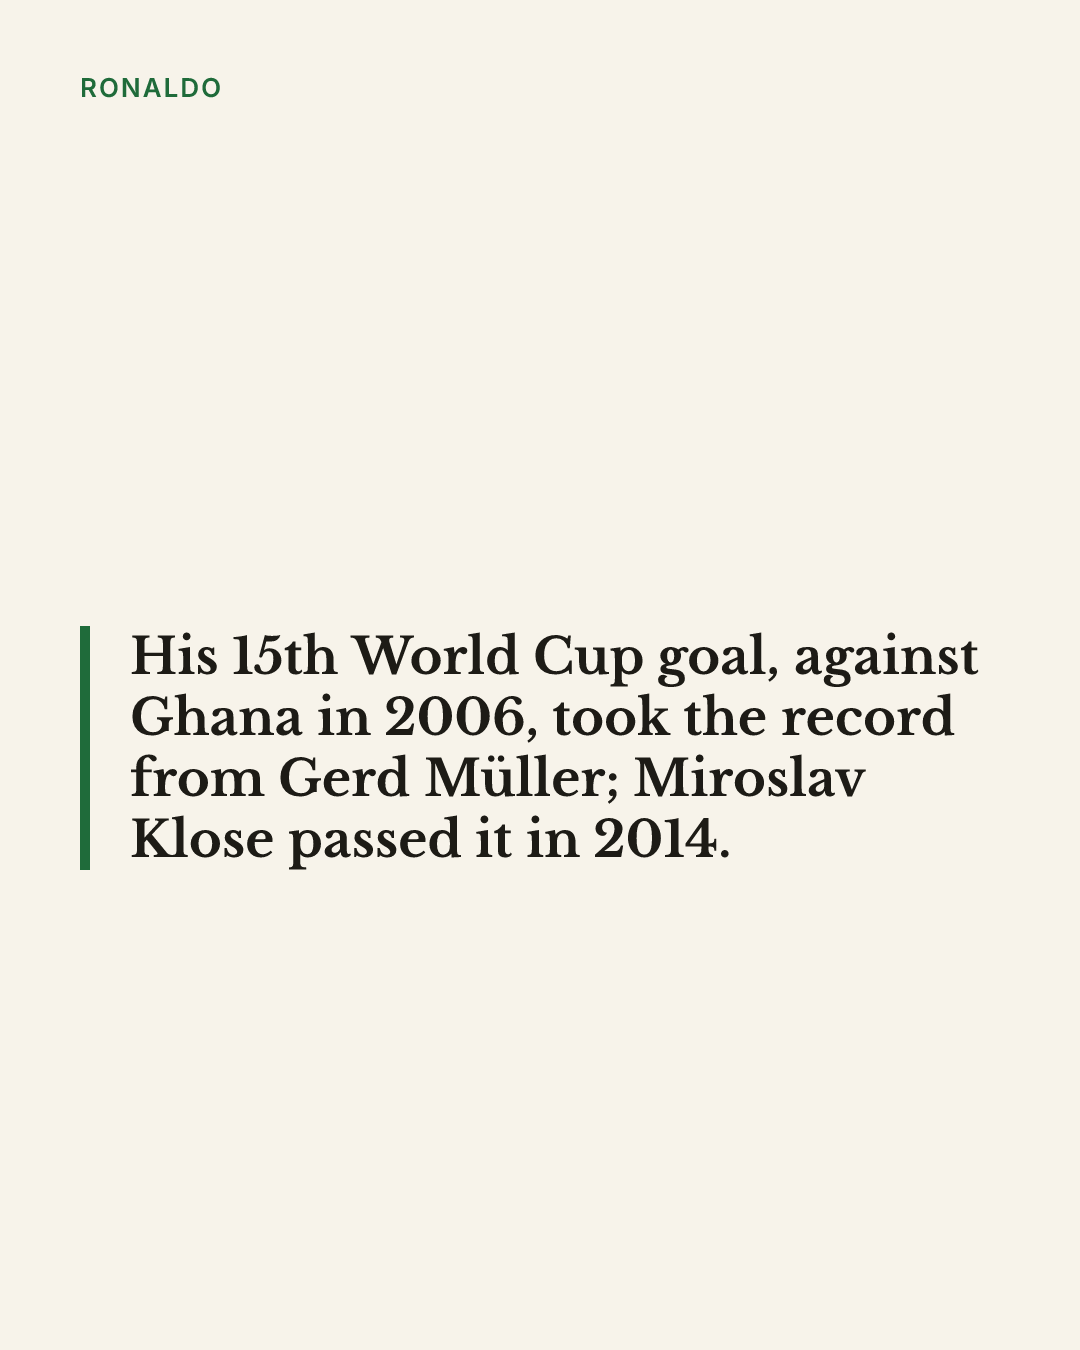
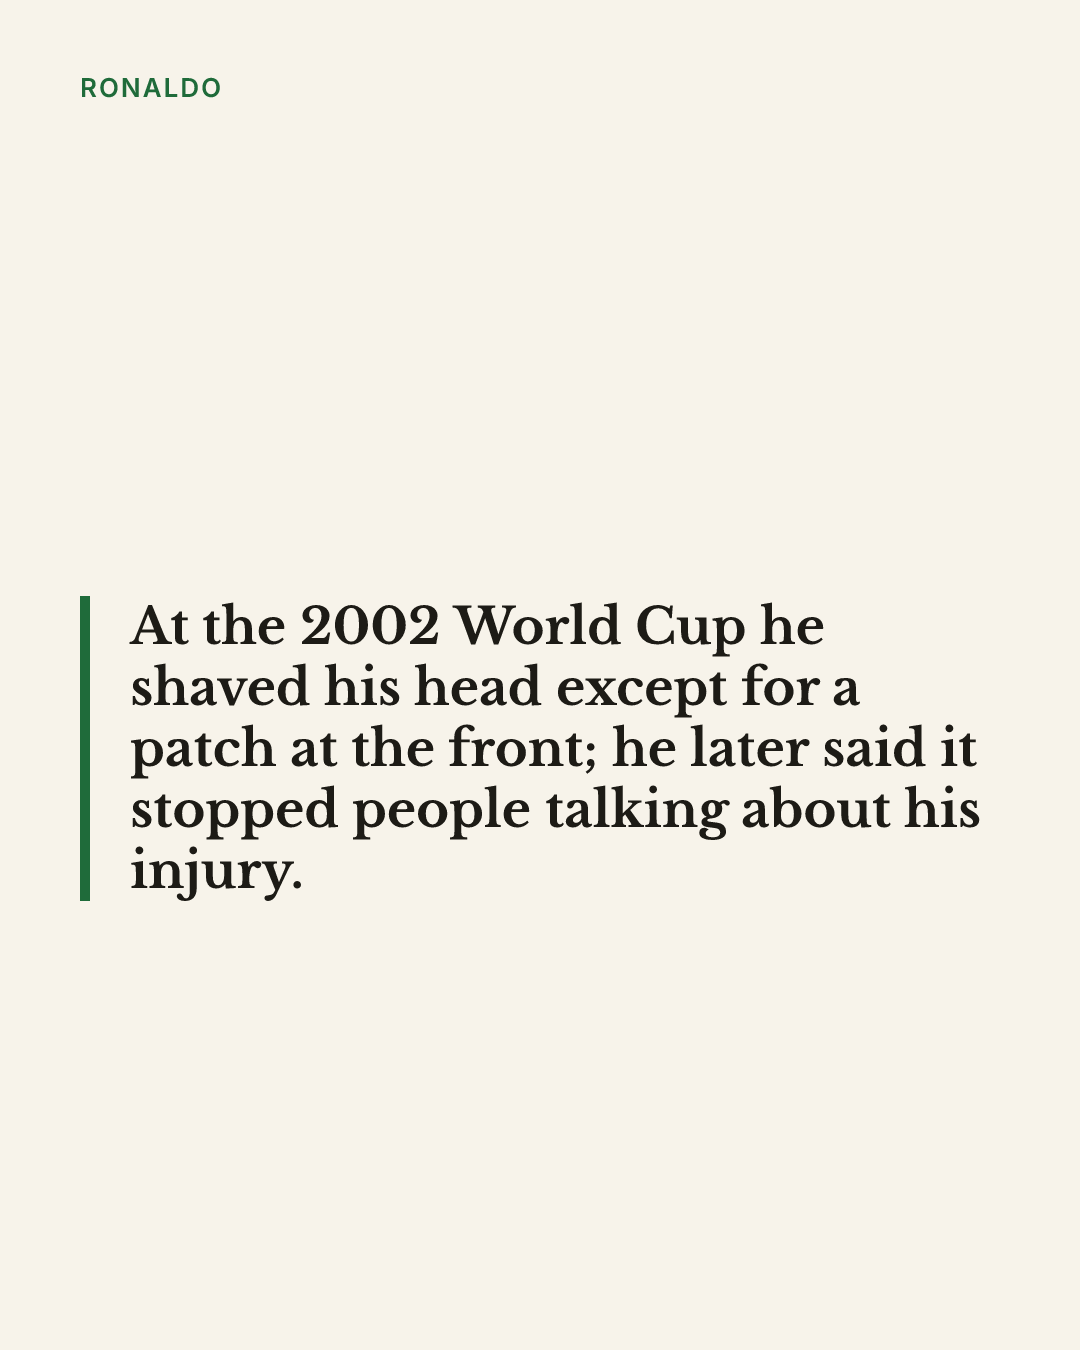
content: 007-012 rewritten in the short format; 001 social pack rebuilt from the new text
Claude-Session: https://claude.ai/code/session_01KFrvz6d1CHFi9rozrKkMUw

Changed region(s): [[0.1222, 0.4356, 0.9167, 0.6844], [0.0611, 0.6533, 0.0917, 0.6844], [0.0611, 0.4356, 0.0917, 0.4667]]

diff --git a/social/001.md b/social/001.md
@@ -1,26 +1,97 @@
 # Story No. 001 · Ronaldo / The World Cup he won on two rebuilt knees
 
-- Sent: 2026-10-18T18:32:16.432Z (scheduled)
+- Sent: 2026-10-19T02:52:39.944Z (scheduled)
 - Web page: https://immigrationlabsg.github.io/football-stories-101/stories/ronaldo-r9-two-rebuilt-knees/ (live)
 - Hero: public/images/stories/001-ronaldo-r9.jpg
 - Hero alt text: Photograph of Ronaldo at the 2002 World Cup
 
-## Facebook (post as text + the hero image, link in the first comment)
+## Facebook (post the whole text with the picture, exactly as below)
 
-Story No. 001
-Ronaldo / The World Cup he won on two rebuilt knees
+Ronaldo came off the bench in Rome on 12 April 2000.
 
-At 21 he won the Ballon d'Or. Then his right knee gave way twice in five months. Two years later he scored both goals in a World Cup final.
+It was the Coppa Italia final, first leg, at the Stadio Olimpico. His first match since November.
 
-Ronaldo came off the bench in the second half of the first leg of the Coppa Italia final at the Stadio Olimpico in Rome on 12 April 2000. It was his first match since November. Within minutes, six by most accounts and seven by others, he shaped to turn and his right knee buckled beneath him. He went down clutching it. Lazio won the match 2–1, but the score hardly mattered: the patellar tendon in that knee, repaired after an injury against Lecce five months earlier, had ruptured completely.
+Within minutes, six by most accounts and seven by others, he shaped to turn and his right knee buckled beneath him.
 
-Greatness in a striker is usually measured in what the player did. Ronaldo's case forces the other measurement, what the player was prevented from doing, and makes it impossible to settle. FIFA's vote named him the best player in the world at 20, and again after the knee had been rebuilt, which is a thing almost nobody manages once. The honest version of his story is not only the tragedy of the lost years in between, but what he did when they ended.
+The patellar tendon, repaired five months earlier, had ruptured completely.
+
+He was still in his early twenties. At 20 he had been the youngest player ever named FIFA World Player of the Year. At 21 he had won the Ballon d'Or.
+
+He would not play another competitive match for 17 months.
+
+Go back a little. Ronaldo grew up in Rio de Janeiro supporting Flamengo, and Flamengo let him go.
+
+The story, as told by his youth coach at São Cristóvão, Alfredo Sampaio, is that the boy missed training because he could not afford the bus fare. The club offered no help.
+
+So a future World Player of the Year slipped through the net over the price of a bus ride.
+
+Cruzeiro took him on instead. On 7 November 1993 he scored five in a 6–0 win over Bahia.
+
+Then came Europe. Thirty league goals in his first season at PSV Eindhoven. Then Barcelona, and 47 goals in 49 games by the club's own count.
+
+Away at Compostela in October 1996, he rode a trip and a tug from the first defender, ran past several more and scored. On the touchline Bobby Robson lifted his hands to his head.
+
+Inter paid a world-record fee, reported at £19.5 million, in 1997.
+
+And then his body started sending the bill.
+
+On 21 November 1999, against Lecce, he felt his right knee give and limped off. Tendon ruptured. Surgery.
+
+Five months later came Rome, and the knee lasted a matter of minutes.
+
+Here's what I didn't know until recently.
+
+The comeback was not one return but a run of false starts.
+
+The knee was rebuilt in Paris by the surgeon Gérard Saillant. Ronaldo's first competitive minutes came on 20 September 2001, the last 28 of a UEFA Cup tie against Brașov.
+
+His return to league football that autumn lasted 13 minutes before another, smaller injury.
+
+His first league goal on the new knee finally came at Brescia on 9 December 2001. It was his first since the afternoon against Lecce, two years earlier.
+
+On the last day of that season Inter lost 4–2 at Lazio and handed Juventus the title.
+
+Ronaldo was substituted and wept on the bench.
+
+A few weeks later he was at the World Cup in South Korea and Japan.
+
+Then came the part that surprised me.
+
+He had been troubled by thigh injuries before the tournament. So he shaved his head, all except a patch of hair at the front.
+
+Years later he said it was deliberate. Once he turned up to training with it, he said, nobody talked about the injury any more.
+
+The haircut was a decoy.
+
+He scored against Turkey, against China, twice against Costa Rica, and late against Belgium. In the semi-final he beat Turkey with a toe-poke.
+
+The final, on 30 June 2002, put him against Oliver Kahn, who had conceded one goal all tournament.
+
+In the 67th minute Kahn failed to hold a low shot from Rivaldo, and Ronaldo scored from the rebound.
+
+In the 79th Rivaldo dummied Kléberson's pass across the area, and Ronaldo finished low.
+
+Brazil won 2–0.
+
+Eight goals, the Golden Boot, and a third FIFA World Player of the Year award. Two years after a knee injury that might have ended his career.
+
+The knees never stopped failing him. In February 2008, playing for Milan, his left patellar tendon went three minutes after he came on.
+
+He retired in February 2011, aged 34. As he put it: "Mentally, I wanted to continue, but I have to acknowledge that I lost [the fight] to my body."
+
+Here's what stays with me.
+
+We usually measure a striker by what he did. Ronaldo makes us count what he was prevented from doing, and the sum never settles.
+
+He was the best in the world before the knee went, and again after it was rebuilt.
+
+Almost nobody manages that once.
 
 Which player's career do you still wonder about: what they did, or what their body stopped them doing?
 
-### First comment
+_____
 
-Full story, with sources: https://immigrationlabsg.github.io/football-stories-101/stories/ronaldo-r9-two-rebuilt-knees/
+Football's greatest stories, one every morning, free: https://immigrationlabsg.github.io/football-stories-101/stories/ronaldo-r9-two-rebuilt-knees/
 
 ## Instagram (carousel: the cards listed below, in order)
 
@@ -45,7 +116,7 @@ At 21 he won the Ballon d'Or. Then his right knee gave way twice in five months.
 • Named FIFA World Player of the Year for 1996 at 20, the youngest winner, after 47 goals in 49 games for Barcelona.
 • Ruptured a tendon in his right knee against Lecce in November 1999, returned in April 2000 and ruptured it completely within minutes.
 • Did not play competitive football again until September 2001, then scored 8 goals at the 2002 World Cup, including both in the final.
-• His 15th World Cup goal, against Ghana in 2006, took the record from Gerd Müller; Miroslav Klose passed it in 2014.
+• At the 2002 World Cup he shaved his head except for a patch at the front; he later said it stopped people talking about his injury.
 • Retired in February 2011, saying that mentally he wanted to continue but had lost to his body.
 
 Story No. 001: Ronaldo / The World Cup he won on two rebuilt knees. Link in reply.
